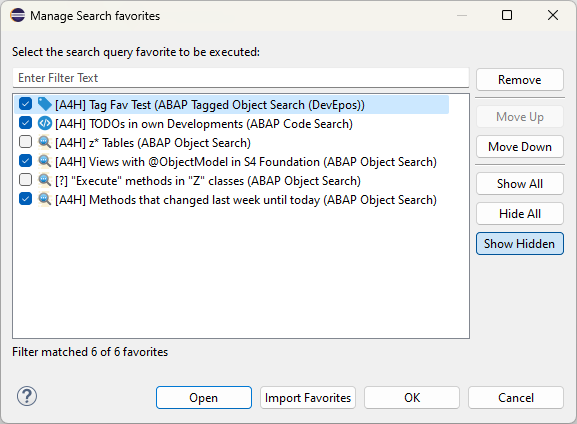
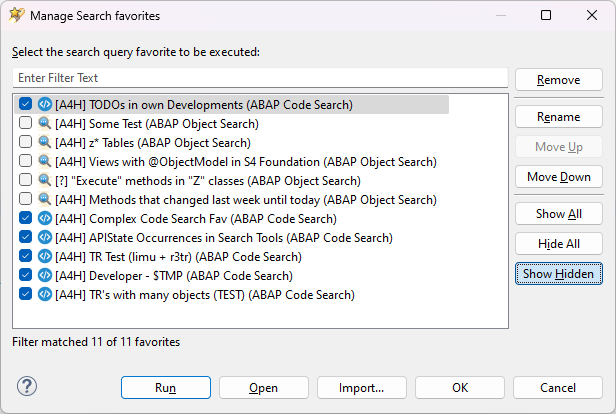
docs(favs): update docs and changelog

diff --git a/features/search-favorites/com.devepos.adt.searchfavorites/css/main.css b/features/search-favorites/com.devepos.adt.searchfavorites/css/main.css
@@ -2,13 +2,22 @@
 html,
 #doc-body,
 body {
+    background-color: #FFF;
+    color: #333;
     font-family: Verdana, sans-serif;
 }
 
-#doc-body,
-body {
-    background-color: #FFF;
-    color: #333;
+.new-feature::after {
+    content: 'new';
+    text-transform: uppercase;
+    font-size: 10px;
+    position: relative;
+    top: -8px;
+    border-radius: 12px;
+    background: #51c751;
+    padding: 4px;
+    color: white;
+    user-select: none;
 }
 
 #doc-body,
@@ -62,6 +71,10 @@ figure img {
     color: #333;
 }
 
+.alert>table {
+    background: white;
+}
+
 .alert.default {
     border-left: 5px solid rgba(0, 0, 0, .2);
     background: rgba(0, 0, 0, .05);
@@ -84,6 +97,11 @@ figure img {
 
 .alert-warning__text::after {
     content: 'WARNING';
+    font-weight: bold;
+}
+
+.alert-limitation__text::after {
+    content: 'LIMITATION';
     font-weight: bold;
 }
 
@@ -116,9 +134,9 @@ figure figcaption::before {
 }
 
 table {
-    width: 100%;
     border-collapse: collapse;
     border-spacing: 0;
+    margin: 1em 0;
 }
 
 table td,
@@ -129,6 +147,7 @@ table th {
 
 table th {
     background-color: #f5f5f5;
+    text-align: left;
 }
 
 .code {
@@ -222,4 +241,19 @@ a.link.external::after {
     font-family: arial, sans-serif;
     background: #fefeee;
     border: 0;
+}
+
+.custom-footer {
+    border-top: 1px solid lightgray;
+    position: relative;
+    display: flex;
+    display: -ms-flexbox;
+    flex-wrap: wrap;
+    /*Center horizontaly ie */
+    -ms-flex-pack: center;
+    align-items: center;
+    justify-content: space-evenly;
+    text-align: center;
+    padding-top: 0.5rem;
+    margin-top: 1rem;
 }

diff --git a/features/search-favorites/com.devepos.adt.searchfavorites/html/favorites_overview.html b/features/search-favorites/com.devepos.adt.searchfavorites/html/favorites_overview.html
@@ -4,11 +4,11 @@
 <head>
     <link rel="stylesheet" type="text/css" href="../css/main.css" />
     <meta http-equiv="Content-Type" content="text/html; charset=utf-8" />
-    <title>DevEpos - Search Favorites - Overview</title>
+    <title>DevEpos - ABAP Search Favorites - Overview</title>
 </head>
 
 <body id="doc-body">
-    <h2 class="heading">DevEpos - Search Favorites</h2>
+    <h2 class="heading">DevEpos - ABAP Search Favorites</h2>
     <p>Tool to manage favorites for the integrated Eclipse search</p>
 
     <ul class="list">
@@ -22,12 +22,17 @@
         <li><a class="link external" href="https://marketplace.eclipse.org/content/abap-search-and-analysis-tools"
                 target="_blank">ABAP Object
                 Search (DevEpos)</a></li>
-        <li><a class="link external" href="https://marketplace.eclipse.org/content/abap-code-search" target="_blank">ABAP Code
+        <li><a class="link external" href="https://marketplace.eclipse.org/content/abap-code-search"
+                target="_blank">ABAP Code
                 Search (DevEpos)</a></li>
-        <li><a class="link external" href="https://marketplace.eclipse.org/content/abap-tags" target="_blank">ABAP Tagged Object
+        <li><a class="link external" href="https://marketplace.eclipse.org/content/abap-tags" target="_blank">ABAP
+                Tagged Object
                 Search (DevEpos)</a></li>
     </ul>
 
+    <h3>What's New</h3>
+    <p>For an overview of the changes shipped in this release, look <a class="link"
+            href="./changelog/overview.html">here</a>.</p>
 </body>
 
 </html>

diff --git a/features/search-favorites/com.devepos.adt.searchfavorites/html/manage_favorites.html b/features/search-favorites/com.devepos.adt.searchfavorites/html/manage_favorites.html
@@ -4,7 +4,7 @@
 <head>
     <link rel="stylesheet" type="text/css" href="../css/main.css" />
     <meta http-equiv="Content-Type" content="text/html; charset=utf-8" />
-    <title>DevEpos - Search Favorites - Manage Favorites</title>
+    <title>DevEpos - ABAP Search Favorites - Manage Favorites</title>
 </head>
 
 <body id="doc-body">
@@ -31,9 +31,21 @@
         the <em>Remove</em> Button.<br>
     </p>
     <p>
-        To execute a Search from a Favorite you can either do a douple mouse click on an entry or you can select one and
-        press the <em>Open</em> Button in bottom of the dialog.
+        Upon selecting a given favorite entry you can perform the following actions on it:
     </p>
+    <ul class="list">
+        <li>Change the order via <em>Move Up</em> or <em>Move Down</em></li>
+        <li>Change the description via <em>Rename</em></li>
+        <li>Execute the favorite via <em>Run</em>
+            <div class="alert info">
+                <div class="alert-tip__text"></div>
+                You can also execute a favorite via double clicking it
+            </div>
+        </li>
+        <li>Open the favorite in the Eclipse search dialog via <em>Open</em></li>
+        <li>Delete it</li>
+    </ul>
+
     <p>
         You have also the option to control the visibility of the favorites, i.e. the favorites that should be shown in
         the drop-down menu that is accessible from the main toolbar or the Search Result view.

diff --git a/features/search-favorites/com.devepos.adt.searchfavorites/html/changelog/latest-release.html b/features/search-favorites/com.devepos.adt.searchfavorites/html/changelog/latest-release.html
@@ -1,0 +1,34 @@
+<!DOCTYPE html>
+<html id="doc-page">
+
+<head>
+    <link rel="stylesheet" type="text/css" href="../../css/main.css" />
+    <meta http-equiv="Content-Type" content="text/html; charset=utf-8" />
+    <title>Release Notes of ABAP Search Favorites 1.1.0</title>
+</head>
+
+<body id="doc-body">
+    <h2 class="heading">Release Notes of ABAP Search Favorites 1.1.0</h2>
+
+    <h3 class="heading">ABAP Search Favorites</h3>
+    <h4 class="heading">Features</h4>
+
+    <ul class="list">
+        <li>Favorites can now be renamed</li>
+        <li>Project independent favorites are executed with the project from the active workspace selection</li>
+        <li>New preference to control the action upon selecting a favorite from the dropdown menu<br>
+            <figure>
+                <img src="../../images/Preferences-dropdownSettings.png">
+                <figcaption>New preference for selection action</figcaption>
+            </figure>
+        </li>
+    </ul>
+
+    <footer class="custom-footer">
+        <div>© 2020-present DevEpos.com, Ludwig Stockbauer-Muhr<br>
+            Visit <a class="link" href="https://devepos.com" target="_blank">https://devepos.com</a>
+        </div>
+    </footer>
+</body>
+
+</html>

diff --git a/features/search-favorites/com.devepos.adt.searchfavorites/html/changelog/overview.html b/features/search-favorites/com.devepos.adt.searchfavorites/html/changelog/overview.html
@@ -1,0 +1,27 @@
+<!DOCTYPE html>
+<html id="doc-page">
+
+<head>
+    <link rel="stylesheet" type="text/css" href="../../css/main.css" />
+    <meta http-equiv="Content-Type" content="text/html; charset=utf-8" />
+    <title>What's New</title>
+</head>
+
+<body id="doc-body">
+    <h2 class="heading">What's New</h2>
+    <p>
+        The following list provides an overview of the released versions of <i>ABAP Search Favorites</i> and the changes
+        in each version.
+    </p>
+
+    <h3>Versions</h3>
+
+    <ul class="list">
+        <li><a class="link" href="./latest-release.html">Version 1.1.0</a></li>
+    </ul>
+
+    <p>For release notes of previous versions visit <a class="link external" target="_blank"
+            href="https://devepos.com/projects/adt-plugins/abap-search-favorites/release-notes.html">DevEpos</a>.</p>
+</body>
+
+</html>

diff --git a/features/search-favorites/com.devepos.adt.searchfavorites/html/preferences.html b/features/search-favorites/com.devepos.adt.searchfavorites/html/preferences.html
@@ -4,7 +4,7 @@
 <head>
     <link rel="stylesheet" type="text/css" href="../css/main.css" />
     <meta http-equiv="Content-Type" content="text/html; charset=utf-8" />
-    <title>DevEpos - Search Favorites - Preferences</title>
+    <title>DevEpos - ABAP Search Favorites - Preferences</title>
 </head>
 
 <body id="doc-body">
@@ -16,6 +16,8 @@
             Favorites Drop-Down menu</li>
         <li><em>Insert new favorites at the beginning</em><br>Controls whether new favorites will be inserted at the
             beginning or appended to the end of the list of existing favorites</li>
+        <li><em>Action when selecting a favorite from the dropdown menu</em><br>Sets the action when selecting a
+            favorite from the dropdown menu</li>
     </ul>
 
     <h3 class="heading">Related Information</h3>

diff --git a/features/search-favorites/com.devepos.adt.searchfavorites/html/new_favorite.html b/features/search-favorites/com.devepos.adt.searchfavorites/html/new_favorite.html
@@ -4,7 +4,7 @@
 <head>
     <link rel="stylesheet" type="text/css" href="../css/main.css" />
     <meta http-equiv="Content-Type" content="text/html; charset=utf-8" />
-    <title>DevEpos - Search Favorites - Create New Search Favorite</title>
+    <title>DevEpos - ABAP Search Favorites - Create New Search Favorite</title>
 </head>
 
 <body id="doc-body">
